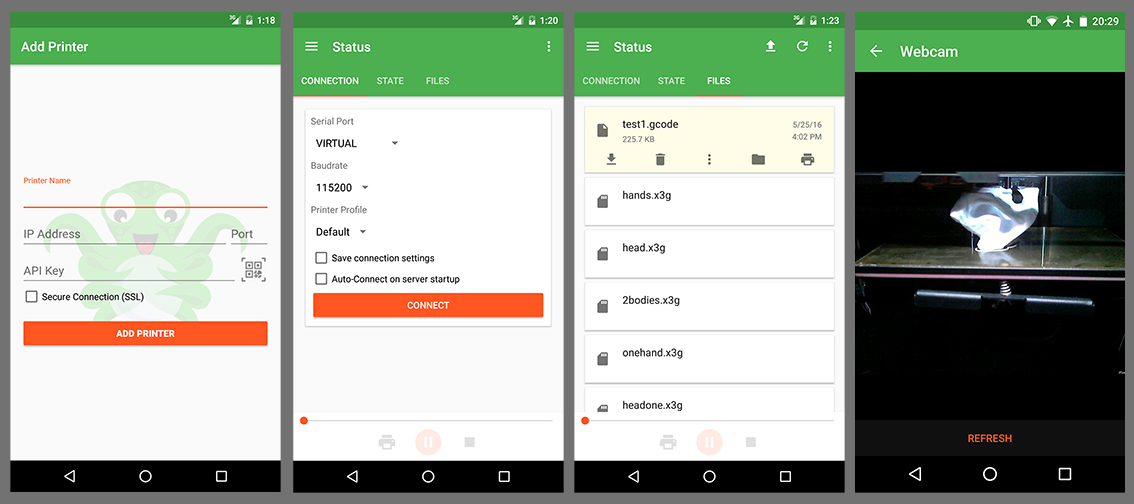
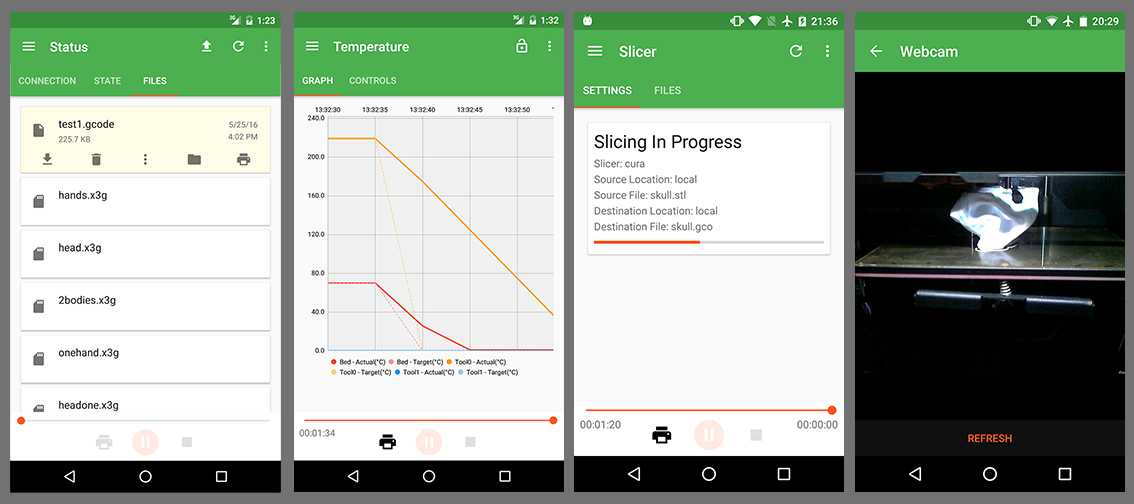
Update build.gradle, and change log to 1.9.0.

diff --git a/CHANGELOG.md b/CHANGELOG.md
@@ -1,6 +1,18 @@
 Change Log
 ==========
 
+Version 1.9.0 *(2016-07-13)*
+----------------------------
+
+ Feature: Auto-Backup
+ 
+ * Toggle in temperature graph layout now also locks vertical scroll
+ * Minor fixes to UI
+ * Updated build and libraries to SDK 24
+ * Switched to Support Preference Library for PreferenceFragments
+ * Added check if barcode detector is operational before executing
+ * Added alert dialog to prevent accidental disconnects when printing
+ 
 Version 1.8.0 *(2016-07-01)*
 ----------------------------
 
